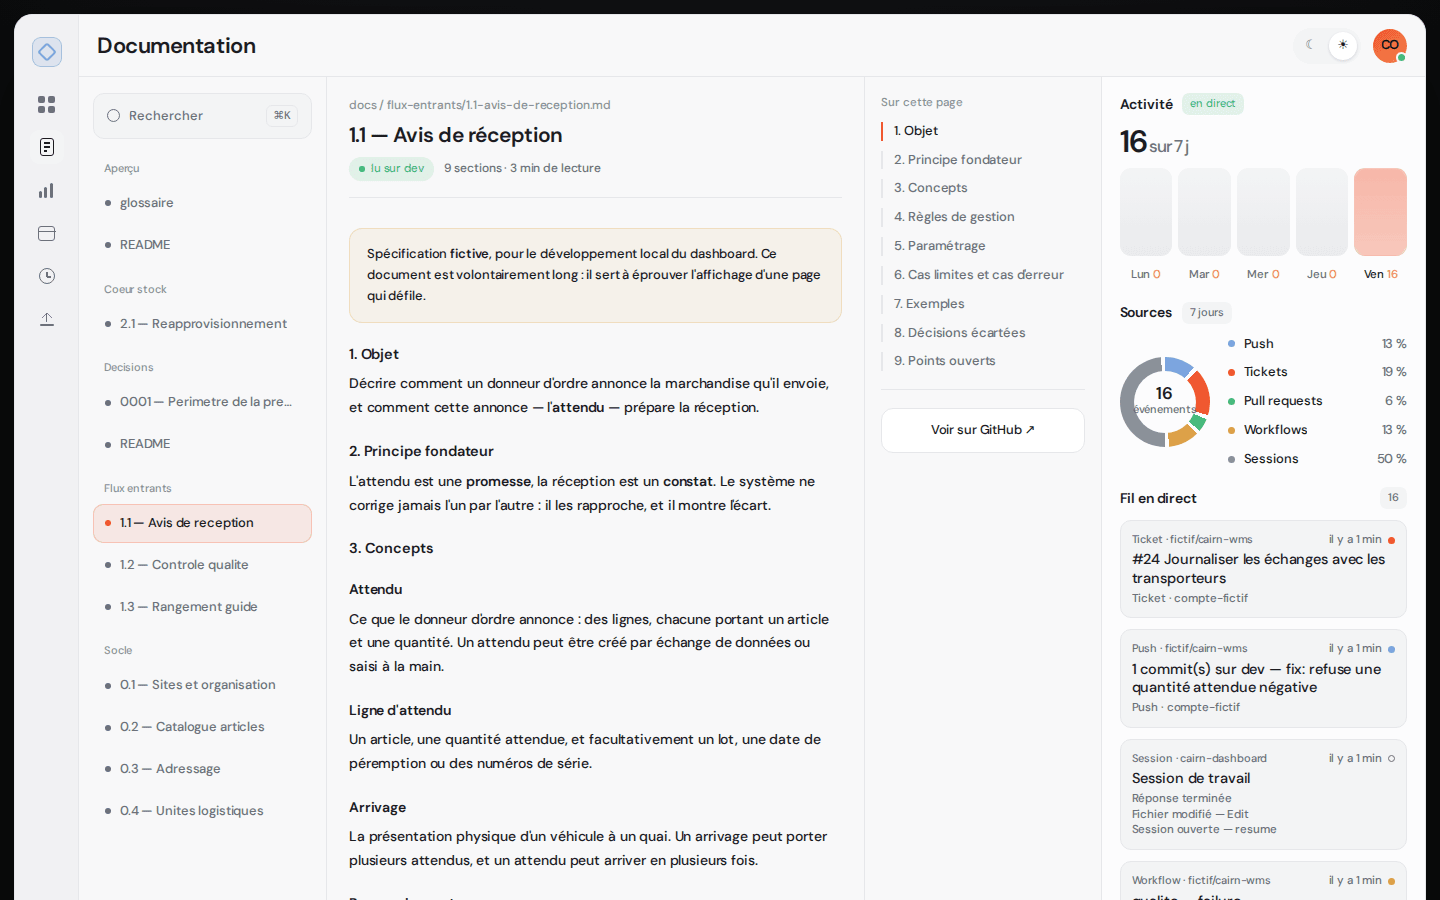
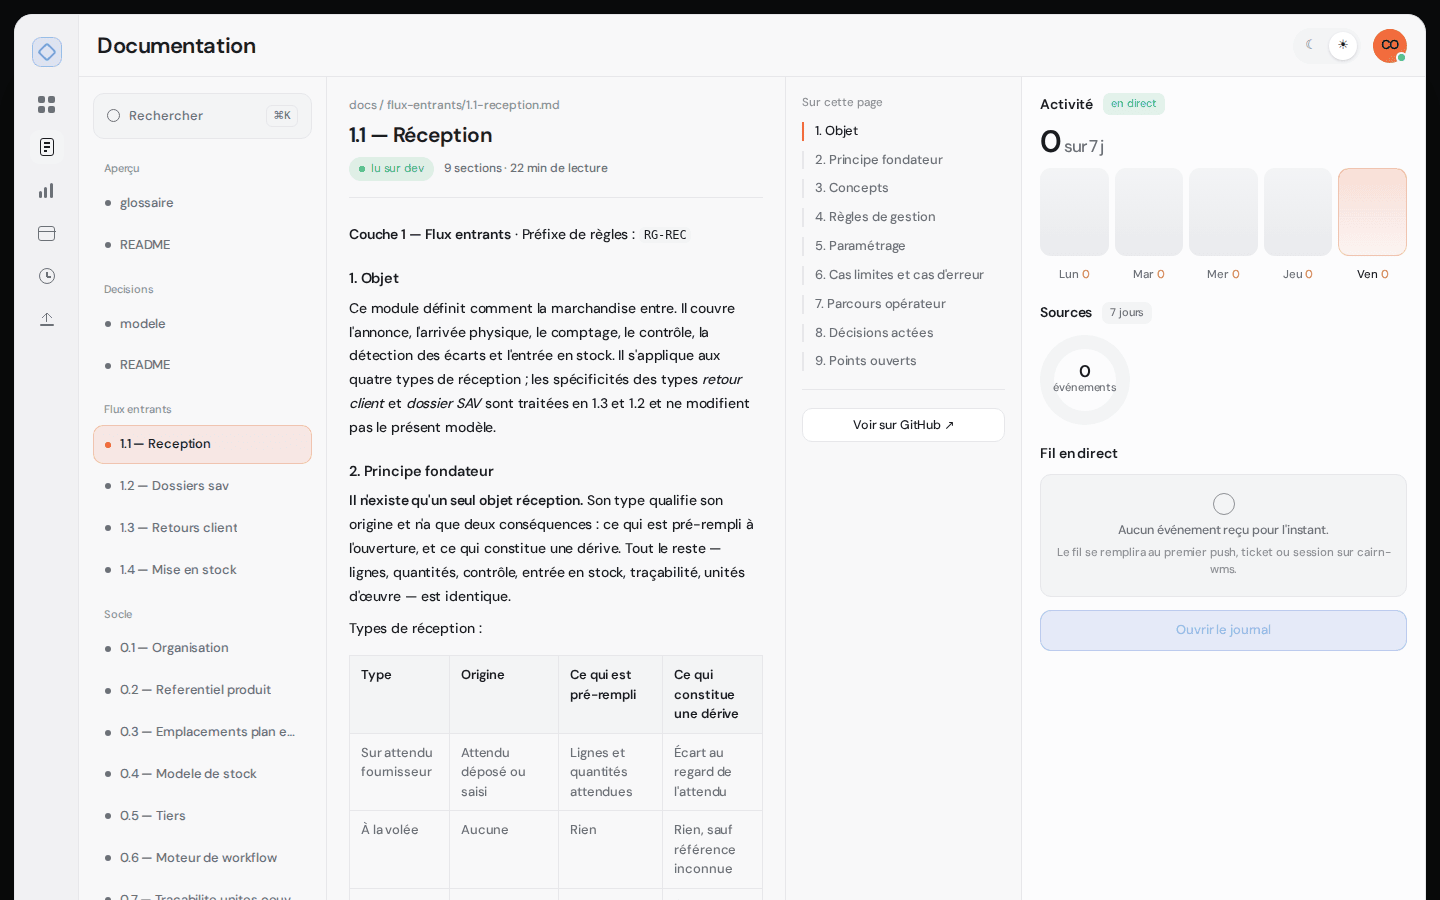
docs: livre la tranche 6b, éprouvée sur l'image de production (#23)
Pull request #24 fusionnée par Lucas, SHA 5b9090a déployé, contrat de
service vérifié de l'extérieur, sombre par défaut vérifié en production.
Les captures jointes viennent de l'image exacte de production lancée sur
le poste avec les vraies données de cairn-wms ; elles remplacent celles
prises sur données fictives.

diff --git a/journal/2026-09-18-1920-reproduction-fidele-du-design.md b/journal/2026-09-18-1920-reproduction-fidele-du-design.md
@@ -102,6 +102,24 @@ et jugé le résultat bon (« c'est niquel »), avec deux demandes, faites aussi
 
 Vérifié sur captures dans les deux thèmes, lint, typage.
 
+### Livraison
+
+- **Lucas a fusionné la pull request #24** (`dev` → `main`, commit de fusion `71122a3`).
+  `deploiement.yml` a déployé le SHA de tête `5b9090a` ; `/health` à 200 au premier essai.
+- **Vérifié de l'extérieur** : `/version` sert `5b9090a`, `/health` et `/live` répondent 200 ; la
+  feuille de style servie ne contient plus de `prefers-color-scheme` ; sans choix enregistré et
+  système réglé en clair, la production rend le sombre — attribut absent, fond `#0e0f11` —,
+  vérifié par Playwright.
+- **Épreuve visuelle sur l'écran réel, connecté.** L'image exacte de production
+  (`ghcr.io/lucaslh1/cairn-dashboard:5b9090a…`) lancée sur le poste avec le jeton GitHub du poste,
+  donc sur les vraies données de cairn-wms — ses 21 modules, ses tickets, son journal — et une
+  session forgée. Huit captures, accueil et `docs/flux-entrants/1.1-reception.md`, 1440 et
+  390 px, sombre et clair, compressées, **remplacent celles prises sur données fictives**. Leur
+  fil est vide : la base d'événements de la production n'est pas accessible depuis le poste, et
+  le conteneur d'épreuve part d'une base neuve — c'est l'état vide réel qu'elles montrent.
+  L'écran de connexion a été capturé sur la production elle-même, dans les deux thèmes.
+- `status.yml` : tranche 6b `livré`. Issue #23 close.
+
 ## Décisions
 
 Aucune fiche : aucune dépendance, aucun choix engageant. Tout ce qui suit relève de la règle 7 —
@@ -161,24 +179,24 @@ Aucune fiche : aucune dépendance, aucun choix engageant. Tout ce qui suit relè
 | `app/utils/temps.ts` | Créé. Dates, heures, semaine, durées, telles que les écrans les disent. |
 | `scripts/visuel/captures.mjs` | Tous les écrans, les deux vues du design. |
 | `scripts/dev/fictif.mjs` | Secret de session fourni par l'environnement, pour l'épreuve visuelle. |
-| `journal/captures/2026-09-18-tranche-6b/` | Huit captures : accueil et documentation, 1440 et 390 px, sombre et clair — sur données fictives, après les retouches. |
+| `journal/captures/2026-09-18-tranche-6b/` | Huit captures : accueil et documentation, 1440 et 390 px, sombre et clair — image de production sur les vraies données. |
+| `status.yml` | Tranche 6b `livré`. |
 
 ## Issues liées
 
-- `#23` — tranche 6b, engagée par cette session ; commentée.
+- `#23` — tranche 6b, engagée, livrée et close par cette session.
+- `#24` — la pull request, fusionnée par Lucas.
 
 ## Points ouverts
 
-- **La tranche n'est pas livrée.** Lucas a validé le rendu sur le poste ; il reste la pull request
-  vers `main` — décision humaine — et la mise en production.
 - **L'écran de connexion en thème clair** — carte sur fond sombre à côté du panneau clair — n'a pas
   encore été vu par Lucas.
-- **« Pas la même taille sur toutes les pages »** : la mesure ne montre aucune différence de
-  largeur ; si Lucas parlait de la hauteur, qui suit la page, la colonne peut être collée à
-  l'écran (toujours visible, à hauteur de fenêtre). Question posée.
-- **Les captures jointes sont prises sur les données fictives**, pas sur l'écran réel connecté que
-  la règle 7 exige pour livrer. Elles montrent la forme ; la preuve de livraison se refera sur la
-  production.
+- **« Pas la même taille sur toutes les pages »** : la mesure ne montrait aucune différence de
+  largeur ; Lucas s'est déclaré satisfait de la colonne proportionnelle. Si le sujet revient, il
+  s'agit sans doute de la hauteur, qui suit la page — une colonne collée à l'écran y répondrait.
+- **Les captures connectées viennent de l'image de production lancée sur le poste**, pas de la
+  production elle-même : son fil y est vide, faute d'accès à sa base. Une capture de la production
+  connectée exigerait une session ouverte par Lucas.
 - **Le fil en direct est désormais sur tous les écrans**, avec une connexion WebSocket unique : à
   constater en production, sur plusieurs onglets.
 - **Les groupes de la documentation sont dans l'ordre alphabétique des dossiers**, celui de l'arbre ;
